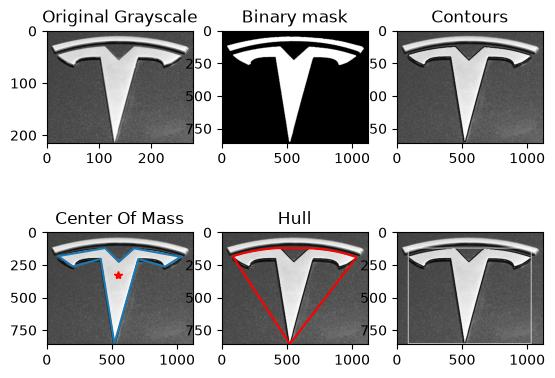
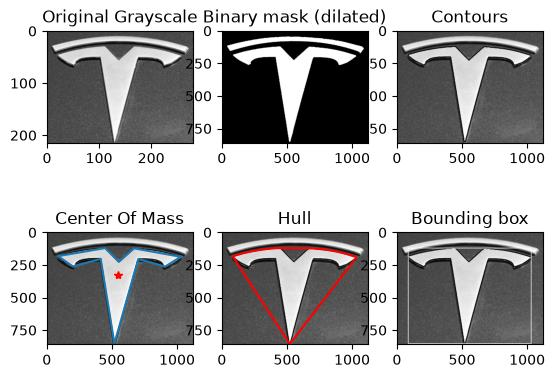
contours

Changed region(s): [[0.7351, 0.5529, 0.9495, 0.6111], [0.3676, 0.0291, 0.7045, 0.0873]]

diff --git a/KevinWoods/20_contours.py b/KevinWoods/20_contours.py
@@ -10,7 +10,7 @@ def contours():
     imgPath = os.path.join(root, 'data/tesla_logo.webp')
     img = cv.imread(imgPath, cv.IMREAD_GRAYSCALE)
 
-    # Taking only logo region
+    # 1. Taking only logo region
     img = img[206:421, 380:660]
 
     plt.figure()
@@ -32,25 +32,26 @@ def contours():
 
     kernel = np.ones((7,7), np.uint8)
 
-    # To enlarge boundaries of objects in the image
+    # 2. To enlarge boundaries of objects in the image
     imgThresh = cv.dilate(imgThresh, kernel)                                            # to show image details better
-
-    # Implmenting contours to find all possible contours in the image
-    contours, _ = cv.findContours(imgThresh, cv.RETR_TREE, cv.CHAIN_APPROX_SIMPLE)      # RETR TREE will get all contours without heirarchy
-
-    contours = [contours[0]]
-    cv.drawContours(img, contours, -1, (0, 255, 0), 5)
 
     plt.subplot(232)
     plt.imshow(imgThresh, cmap = 'gray')
-    plt.title('Binary mask')
+    plt.title('Binary mask (dilated)')
+
+    # 3. Implmenting contours to find all possible contours in the image
+    contours, _ = cv.findContours(imgThresh, cv.RETR_TREE, cv.CHAIN_APPROX_SIMPLE)      # RETR TREE will get all contours without heirarchy
+
+    # Taking the first and biggest contour (relevant)
+    contours = [contours[0]]
+    cv.drawContours(img, contours, -1, (0, 255, 0), 5)                                  # drawing contours n the image(in reality, I can't see anthing)
 
     plt.subplot(233)
     plt.imshow(img, cmap = 'gray')
     plt.title('Contours')
 
 
-    # Finding COM (Centre Of Mass) of the image
+    # 4. Finding COM (Centre Of Mass) of the image
     M = cv.moments(contours[0])
     Cx = int(M['m10']/M['m00'])
     Cy = int(M['m01']/M['m00'])
@@ -75,25 +76,27 @@ def contours():
 
     plt.plot(approx[:, 0, 0], approx[:, 0, 1])
 
-    # Draw boundary with contour edge points in image
+    # 5. Draw boundary with contour edge points in image
     hull = cv.convexHull(contours[0])
     hull = hull[:, 0, :]
     hull = np.concatenate((hull, hull[:1]), axis = 0)
+
     plt.subplot(235)
     plt.imshow(img, cmap= 'gray')
     plt.plot(hull[:,0], hull[:,1], 'r-')
     plt.title('Hull')
 
-    # To draw a rectangle Bounding Box around an object in image
+    # 6. Draw rectangle Bounding Box around an object in image
     x, y, w, h = cv.boundingRect(contours[0])
+
     plt.subplot(236)
     cv.rectangle(img, (x,y), (x+w, y+h), (255,0,0), 3)
     plt.imshow(img, cmap= 'gray')
-
+    plt.title('Bounding box')
 
     output_path = os.path.join(root, 'output/20_contours.jpg') 
     plt.savefig(output_path, bbox_inches = 'tight')
-    
+
     plt.show()
 
 
